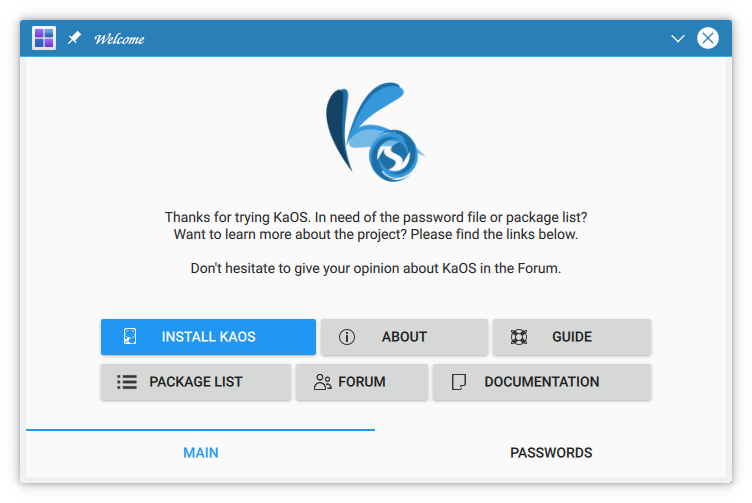
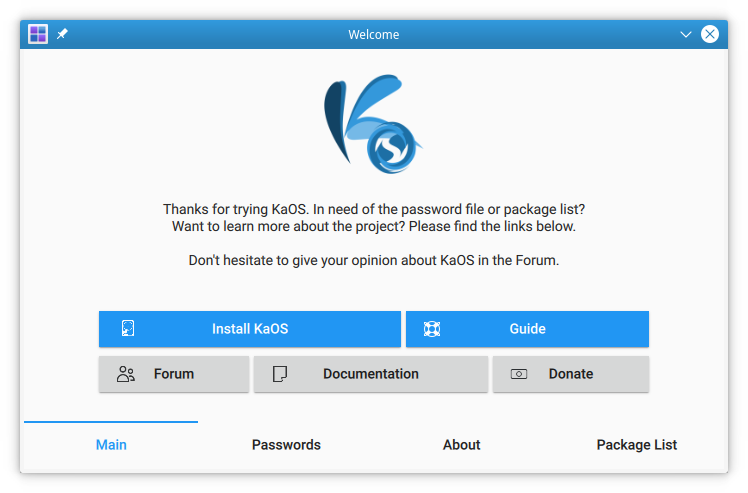
update readme and screenshots

diff --git a/README.md b/README.md
@@ -3,13 +3,14 @@ Live system welcome app for KaOS, written in QML
 
 ![Screenshot](images/welcome1.png)
 ![Screenshot2](images/welcome2.png)
+![Screenshot3](images/welcome3.png)
 
 ### License
 GPL
 
 ### Dependencies
 
-qt5-quickcontrols2, plasma-framework
+qt5-quickcontrols2, plasma-framework, qt5-webview
 
 
 ### Installation
